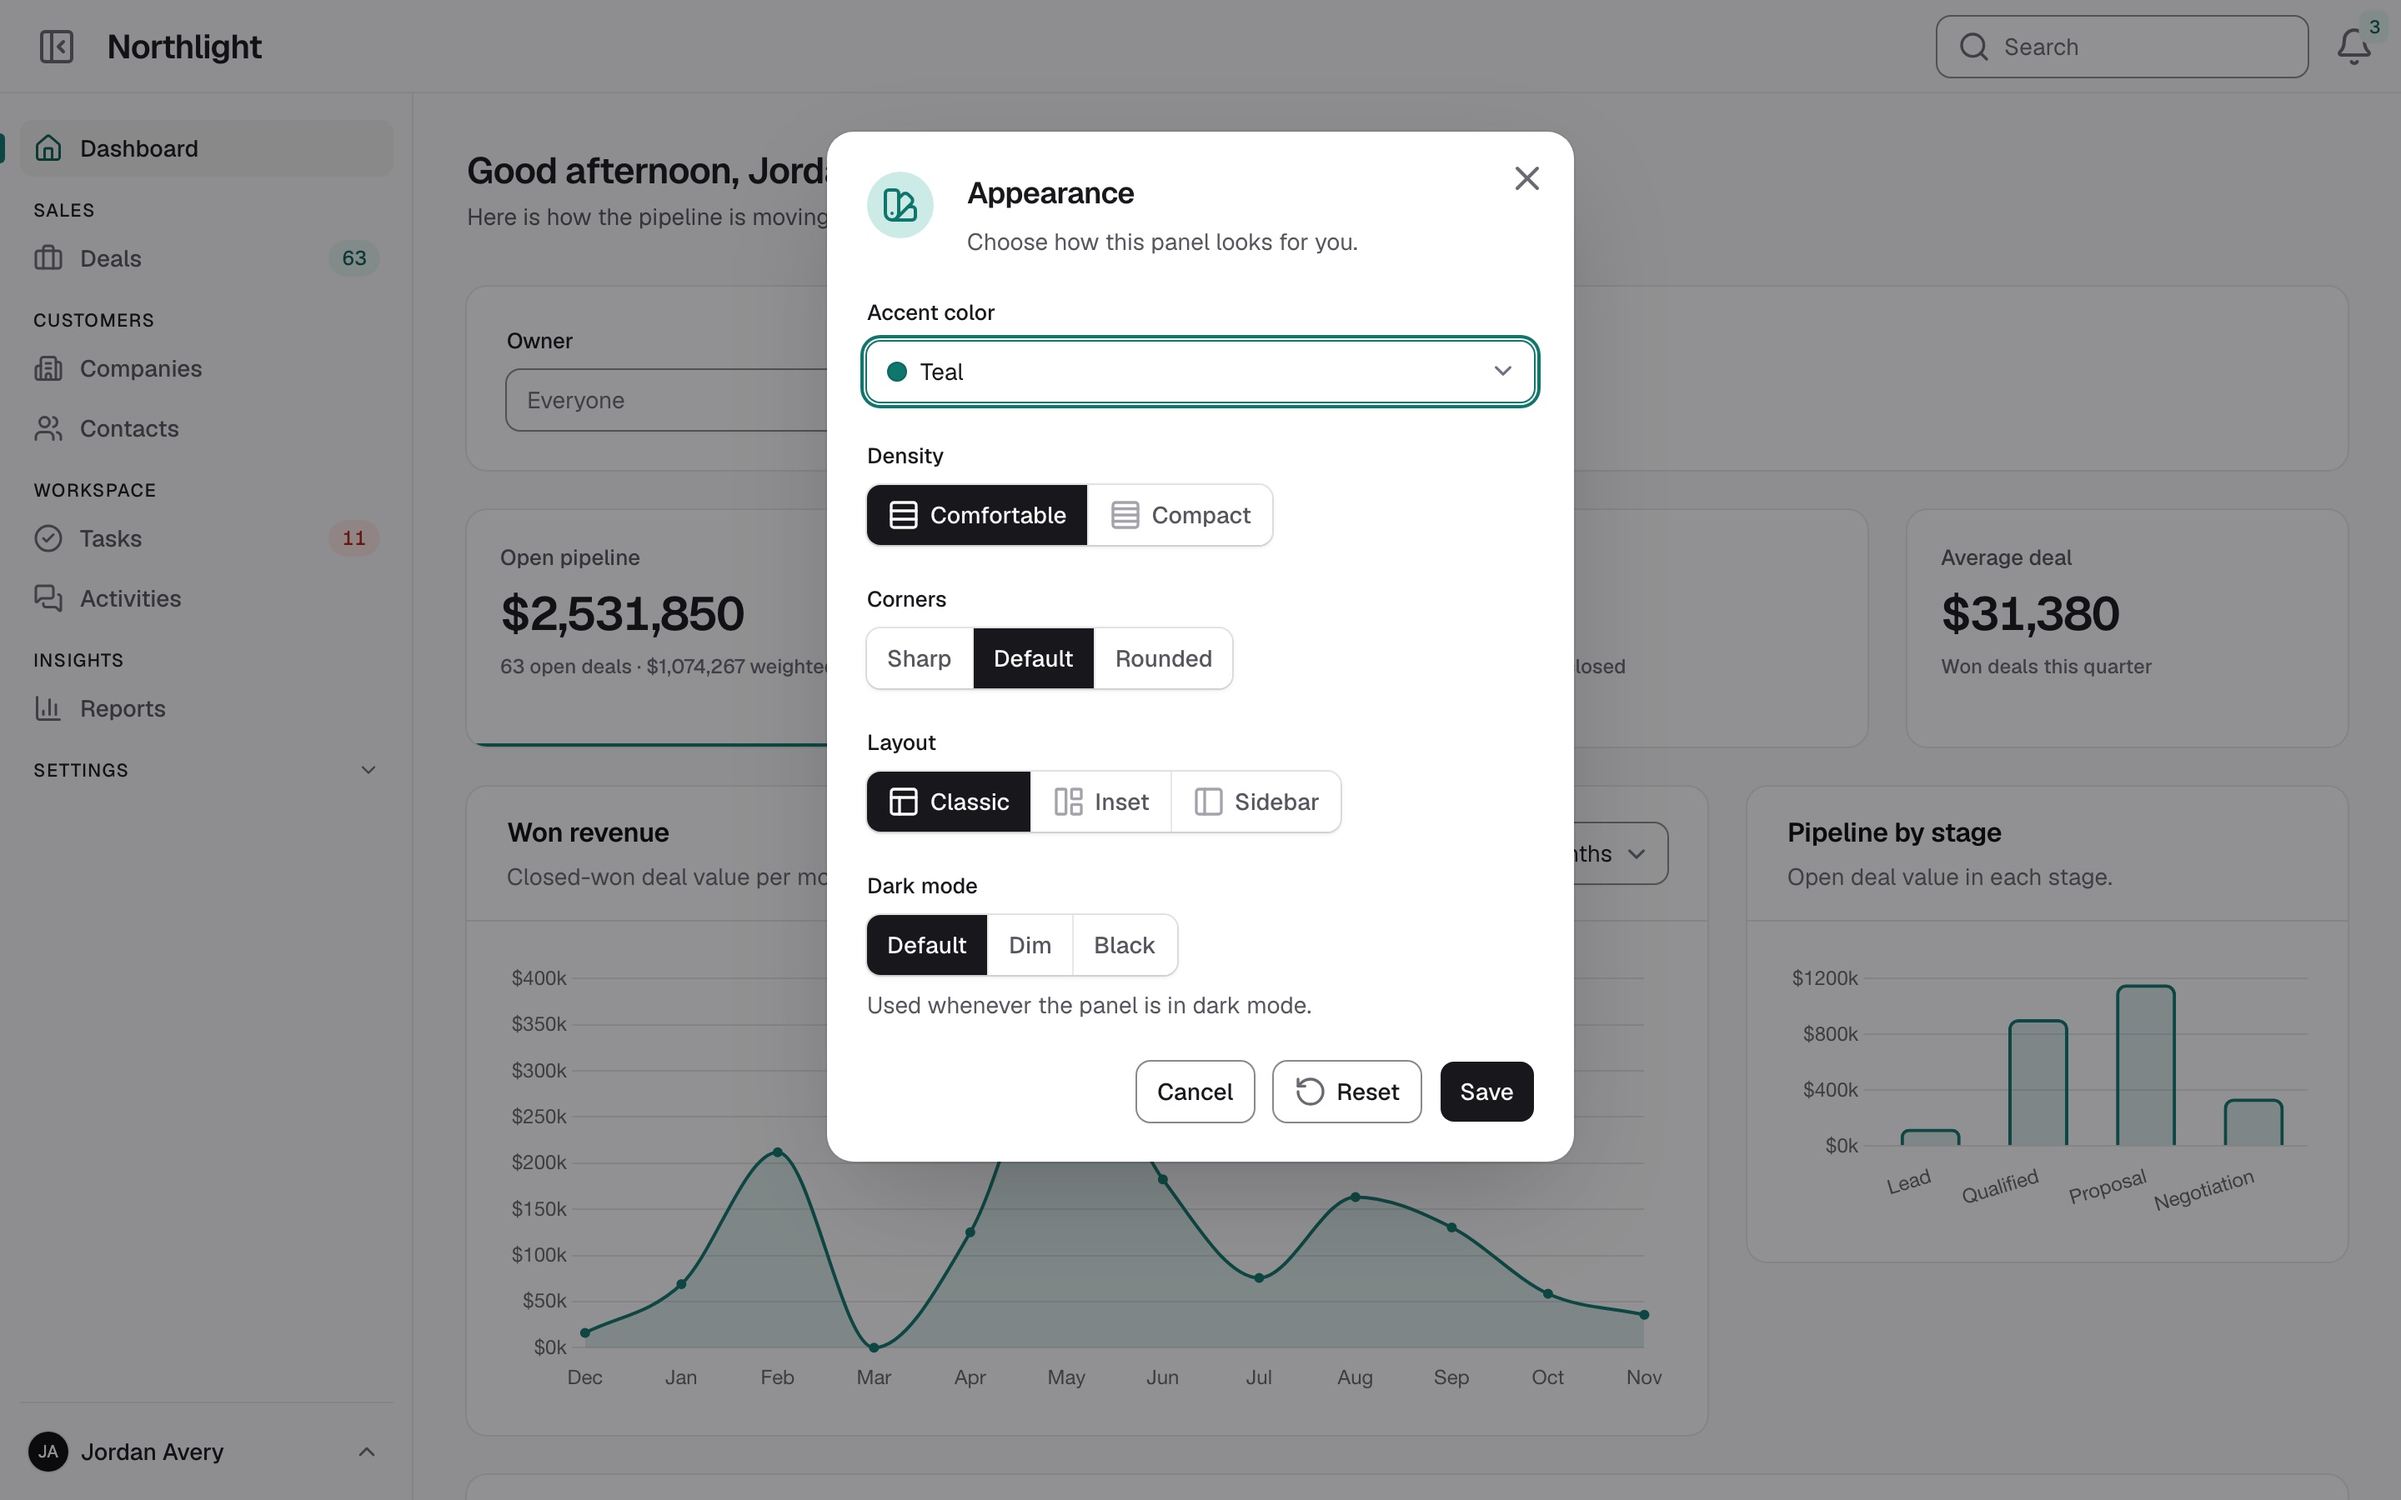
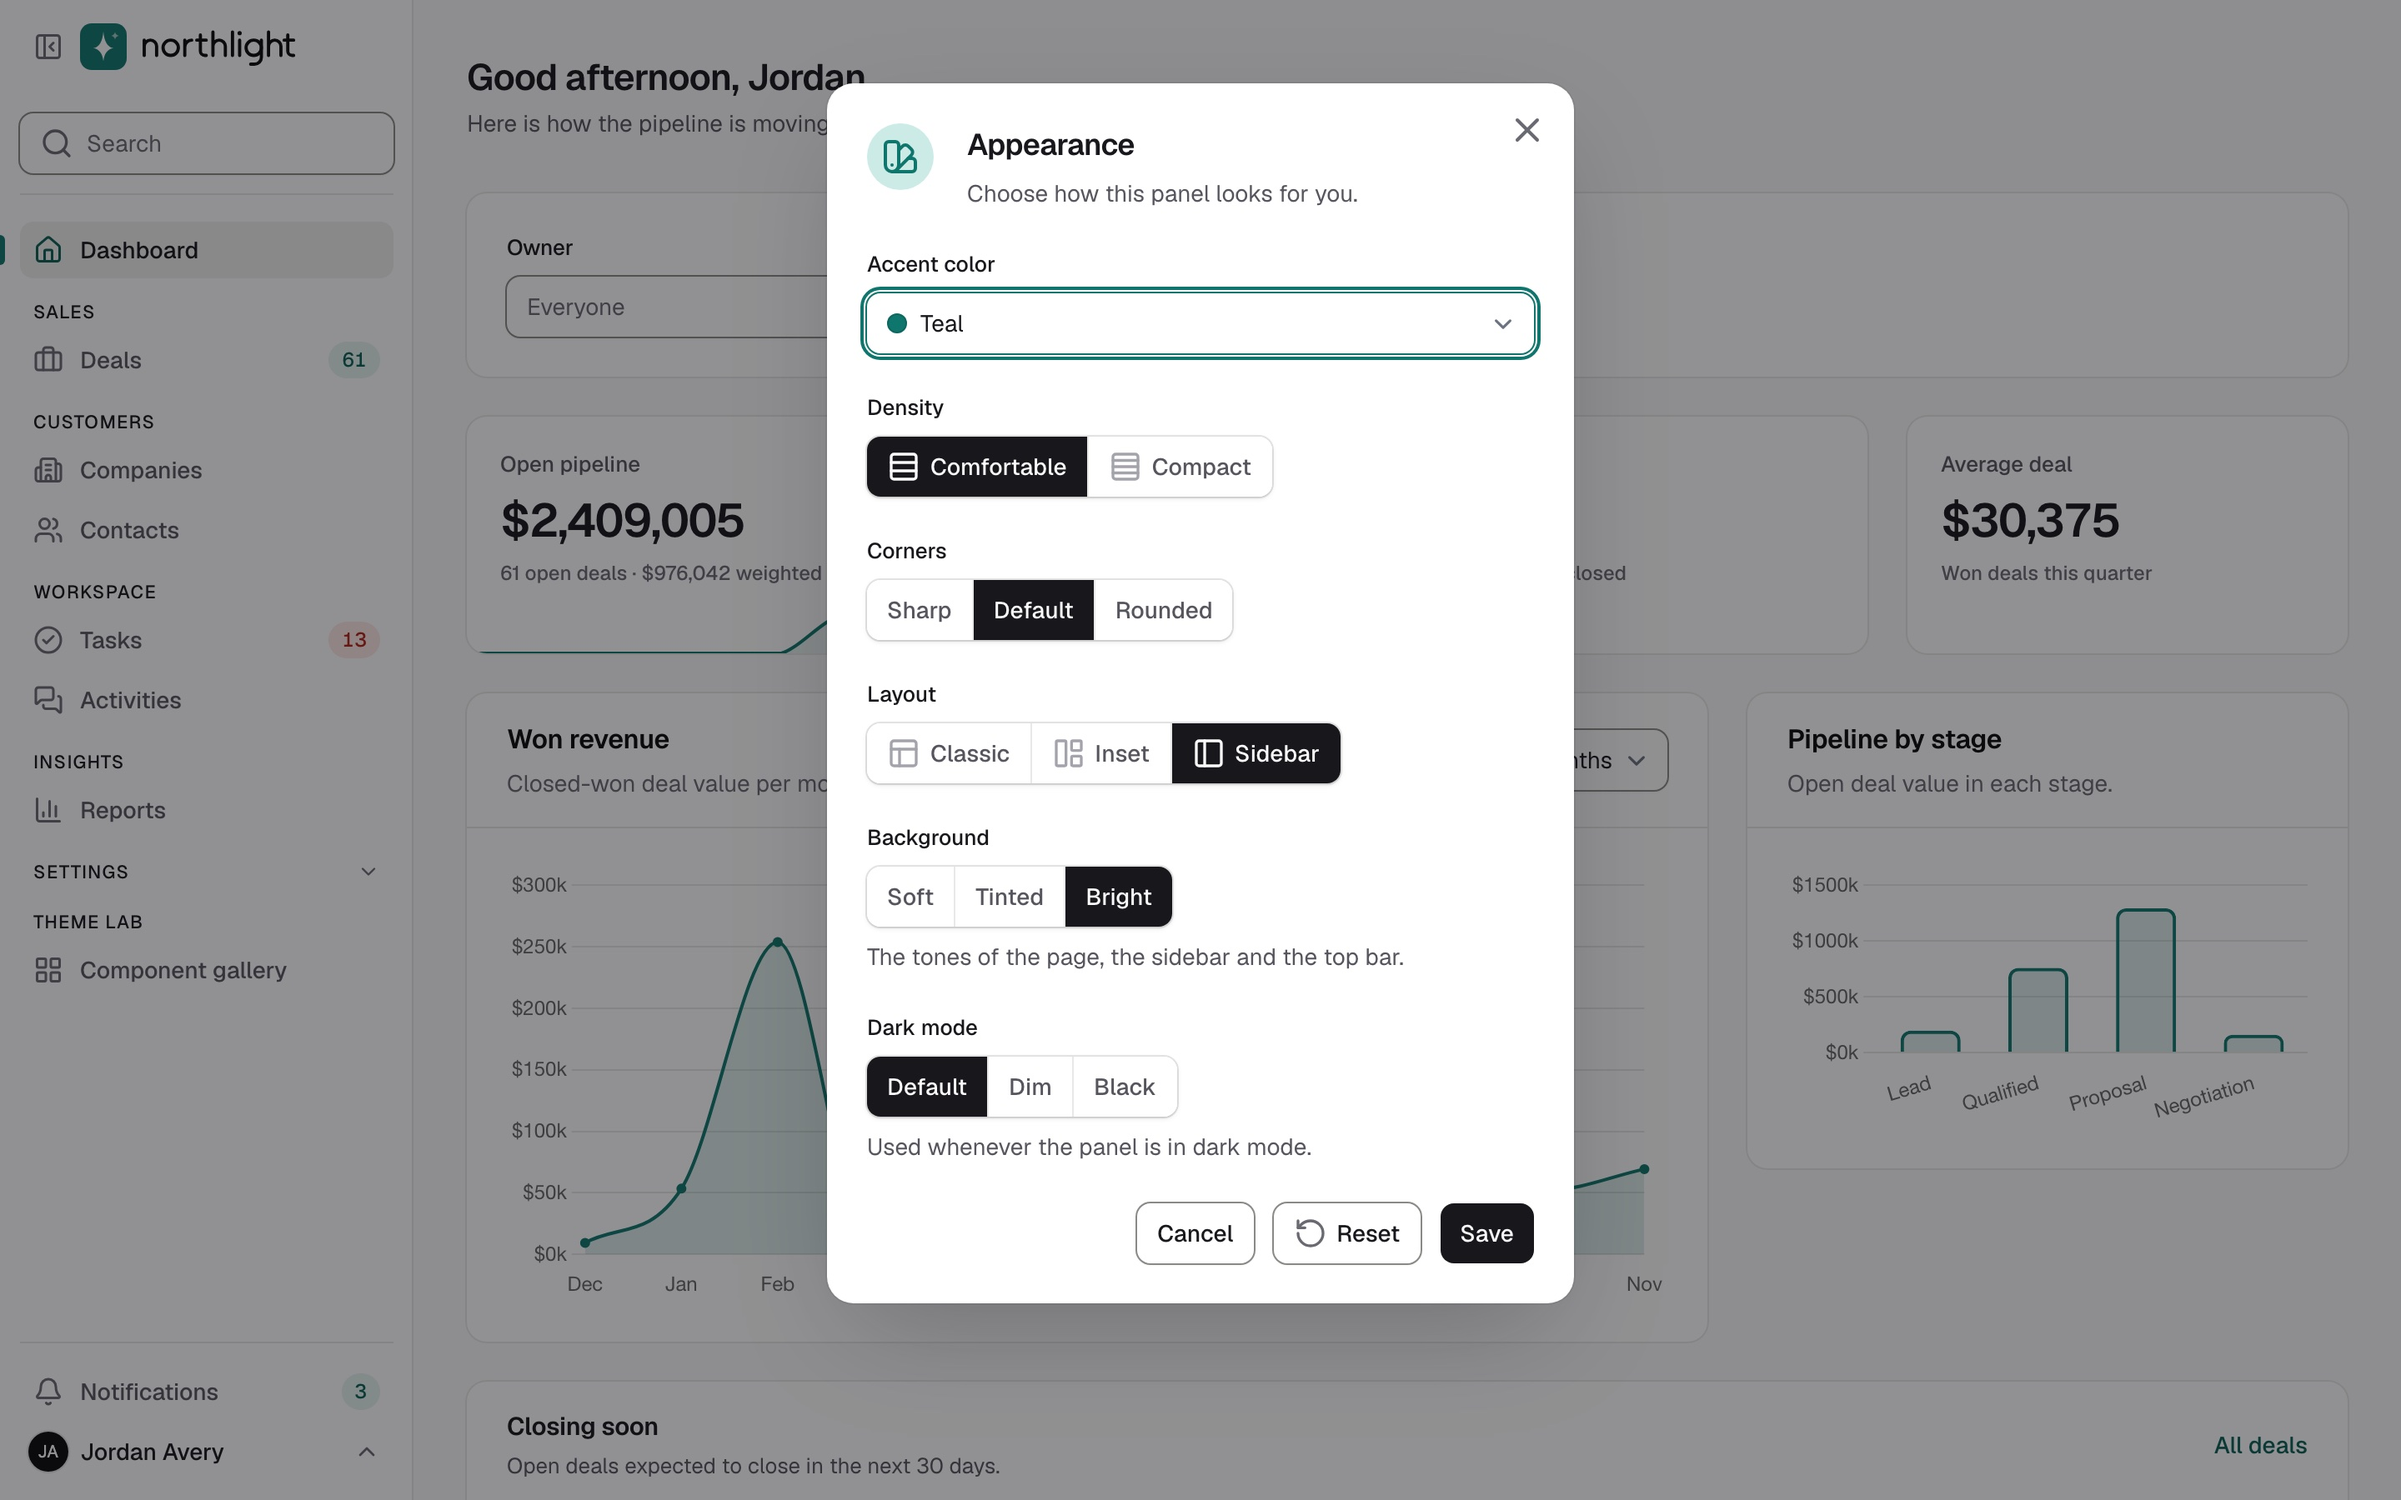
Show the Background option in the Appearance screenshot

diff --git a/README.md b/README.md
@@ -178,7 +178,7 @@ HushPlugin::make()
 HushPlugin::make()->userAppearance(['accent', 'density', 'darkVariant']);
 ```
 
-<p align="center"><img src="https://raw.githubusercontent.com/templix-pro/filament-hush-docs/main/art/appearance.jpg" alt="The Appearance modal with accent, density, corners, layout and dark mode choices" width="100%"></p>
+<p align="center"><img src="https://raw.githubusercontent.com/templix-pro/filament-hush-docs/main/art/appearance.jpg" alt="The Appearance modal with accent, density, corners, layout, background and dark mode choices" width="100%"></p>
 
 Choices are stored in a cookie by default, so they follow the browser. To keep them on the account instead, so they follow the person to every device, add a JSON column to your users table:
 
